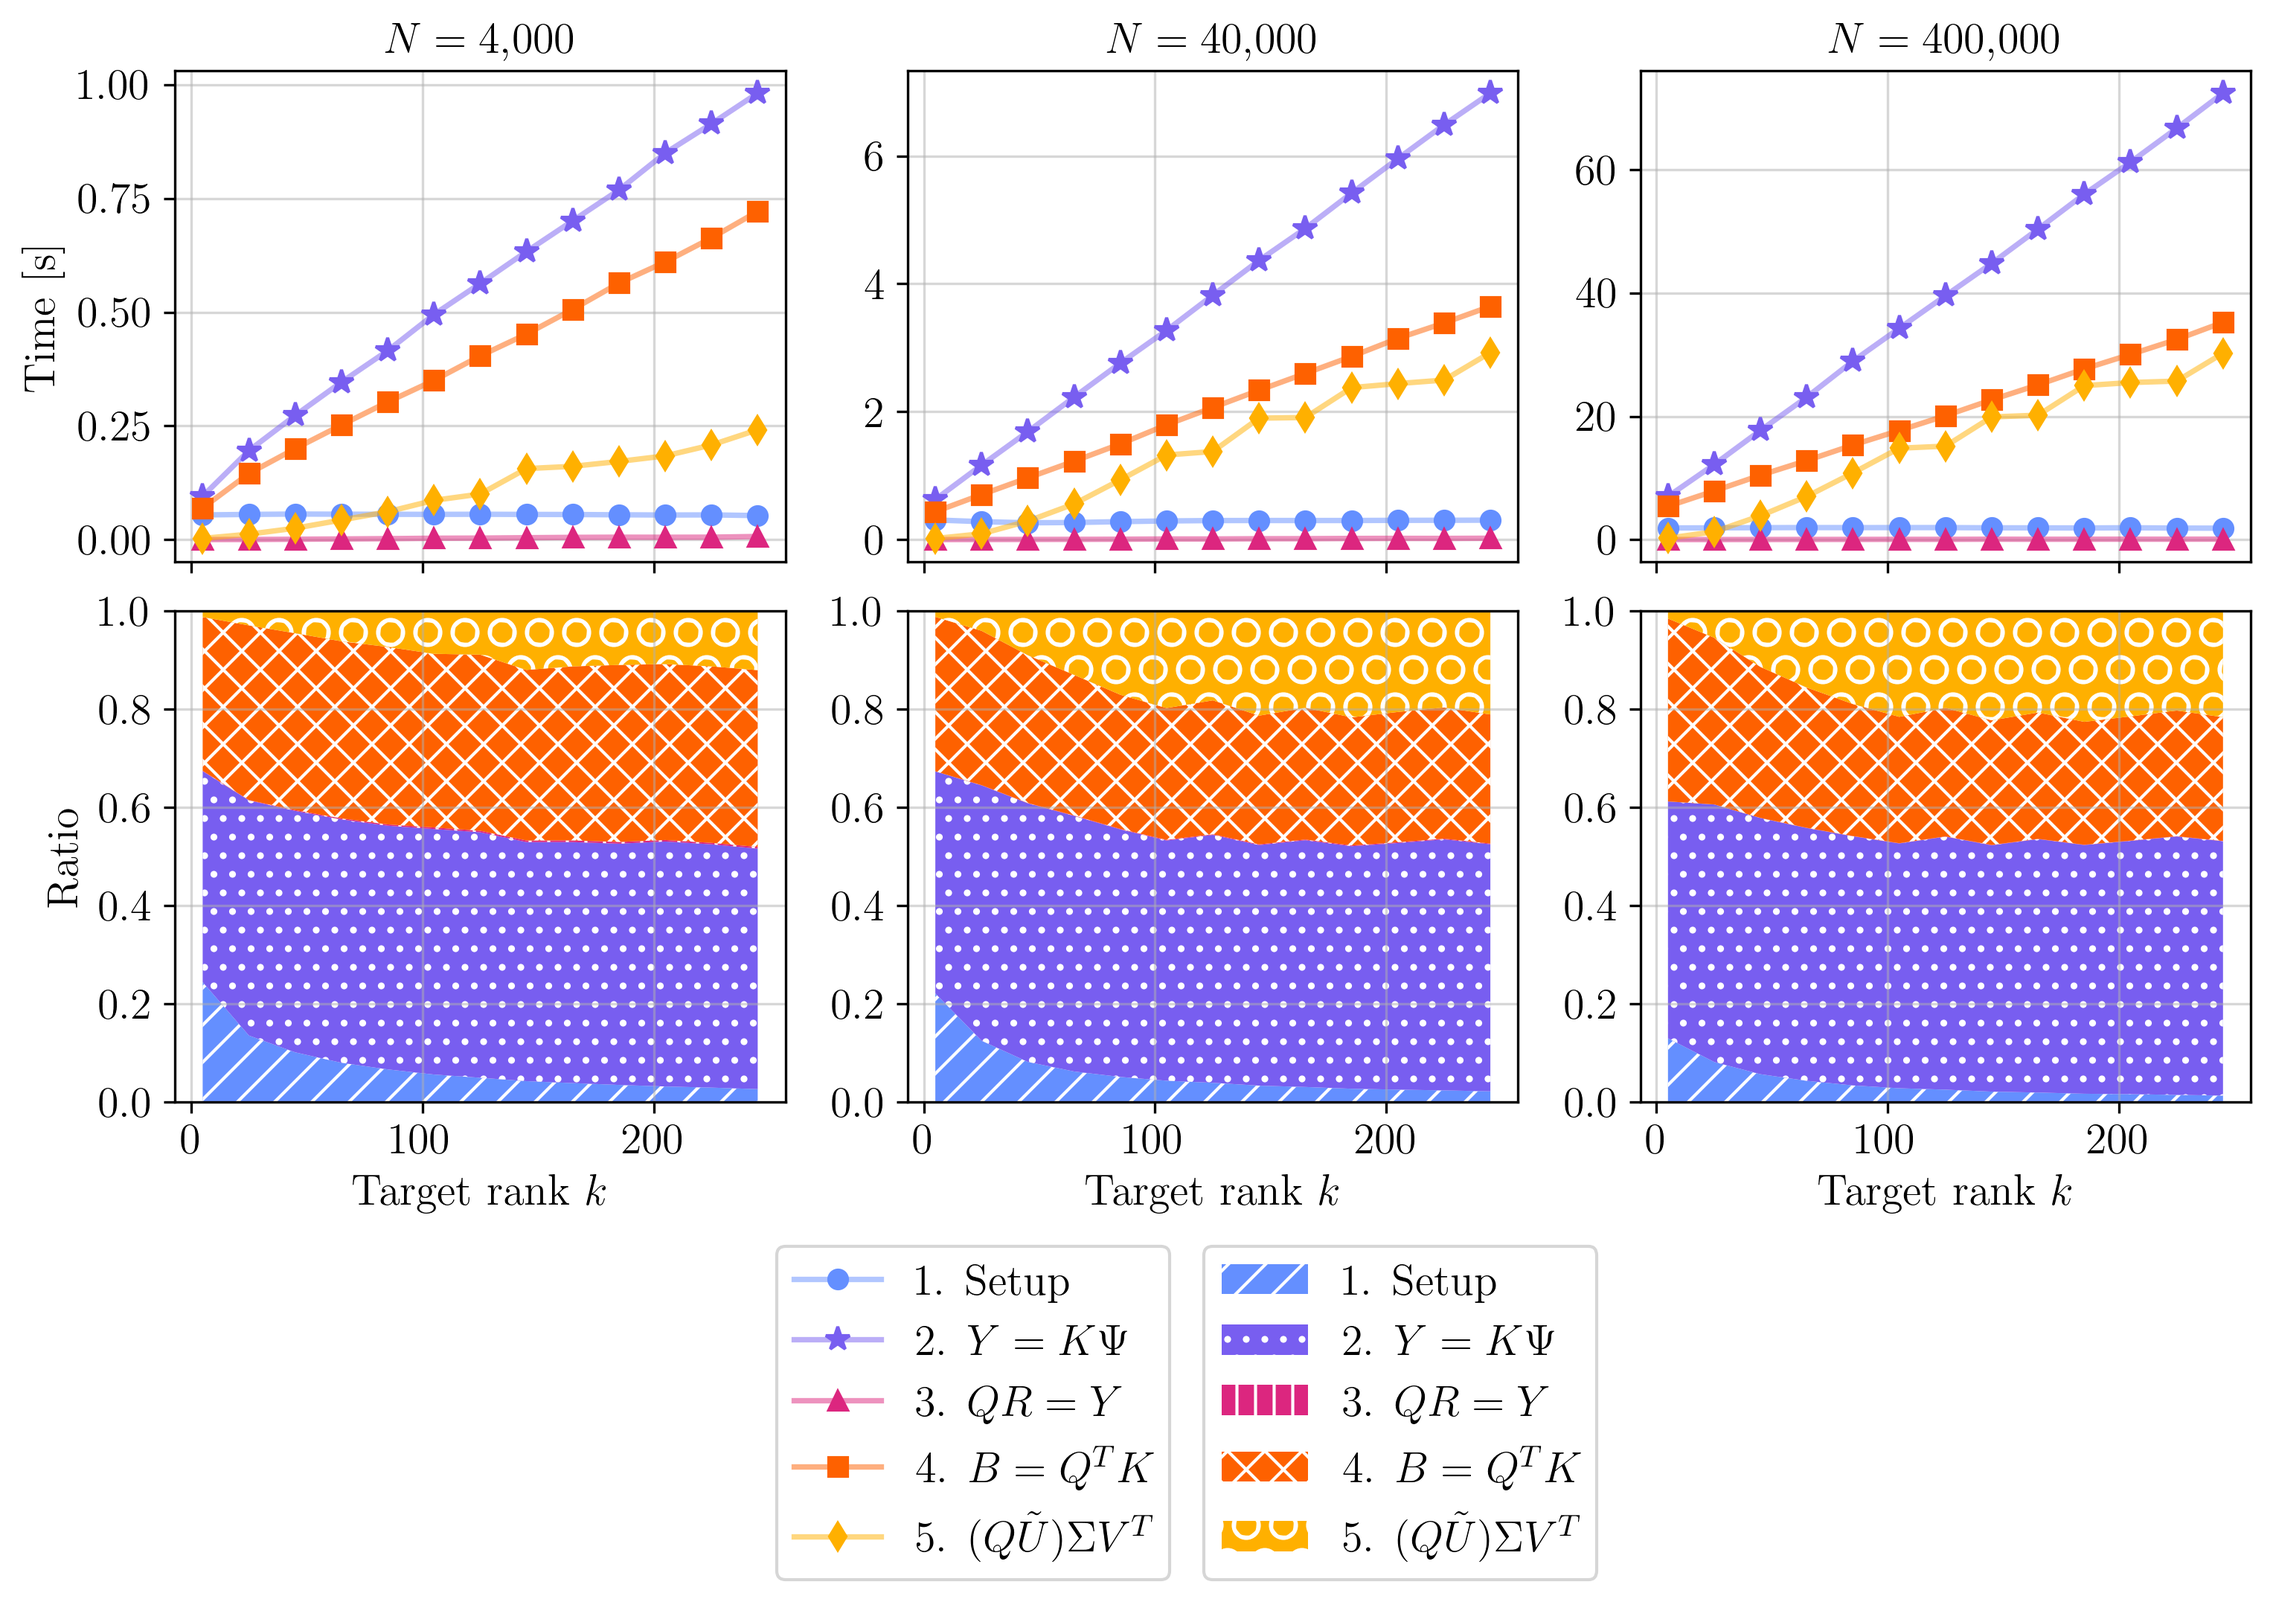
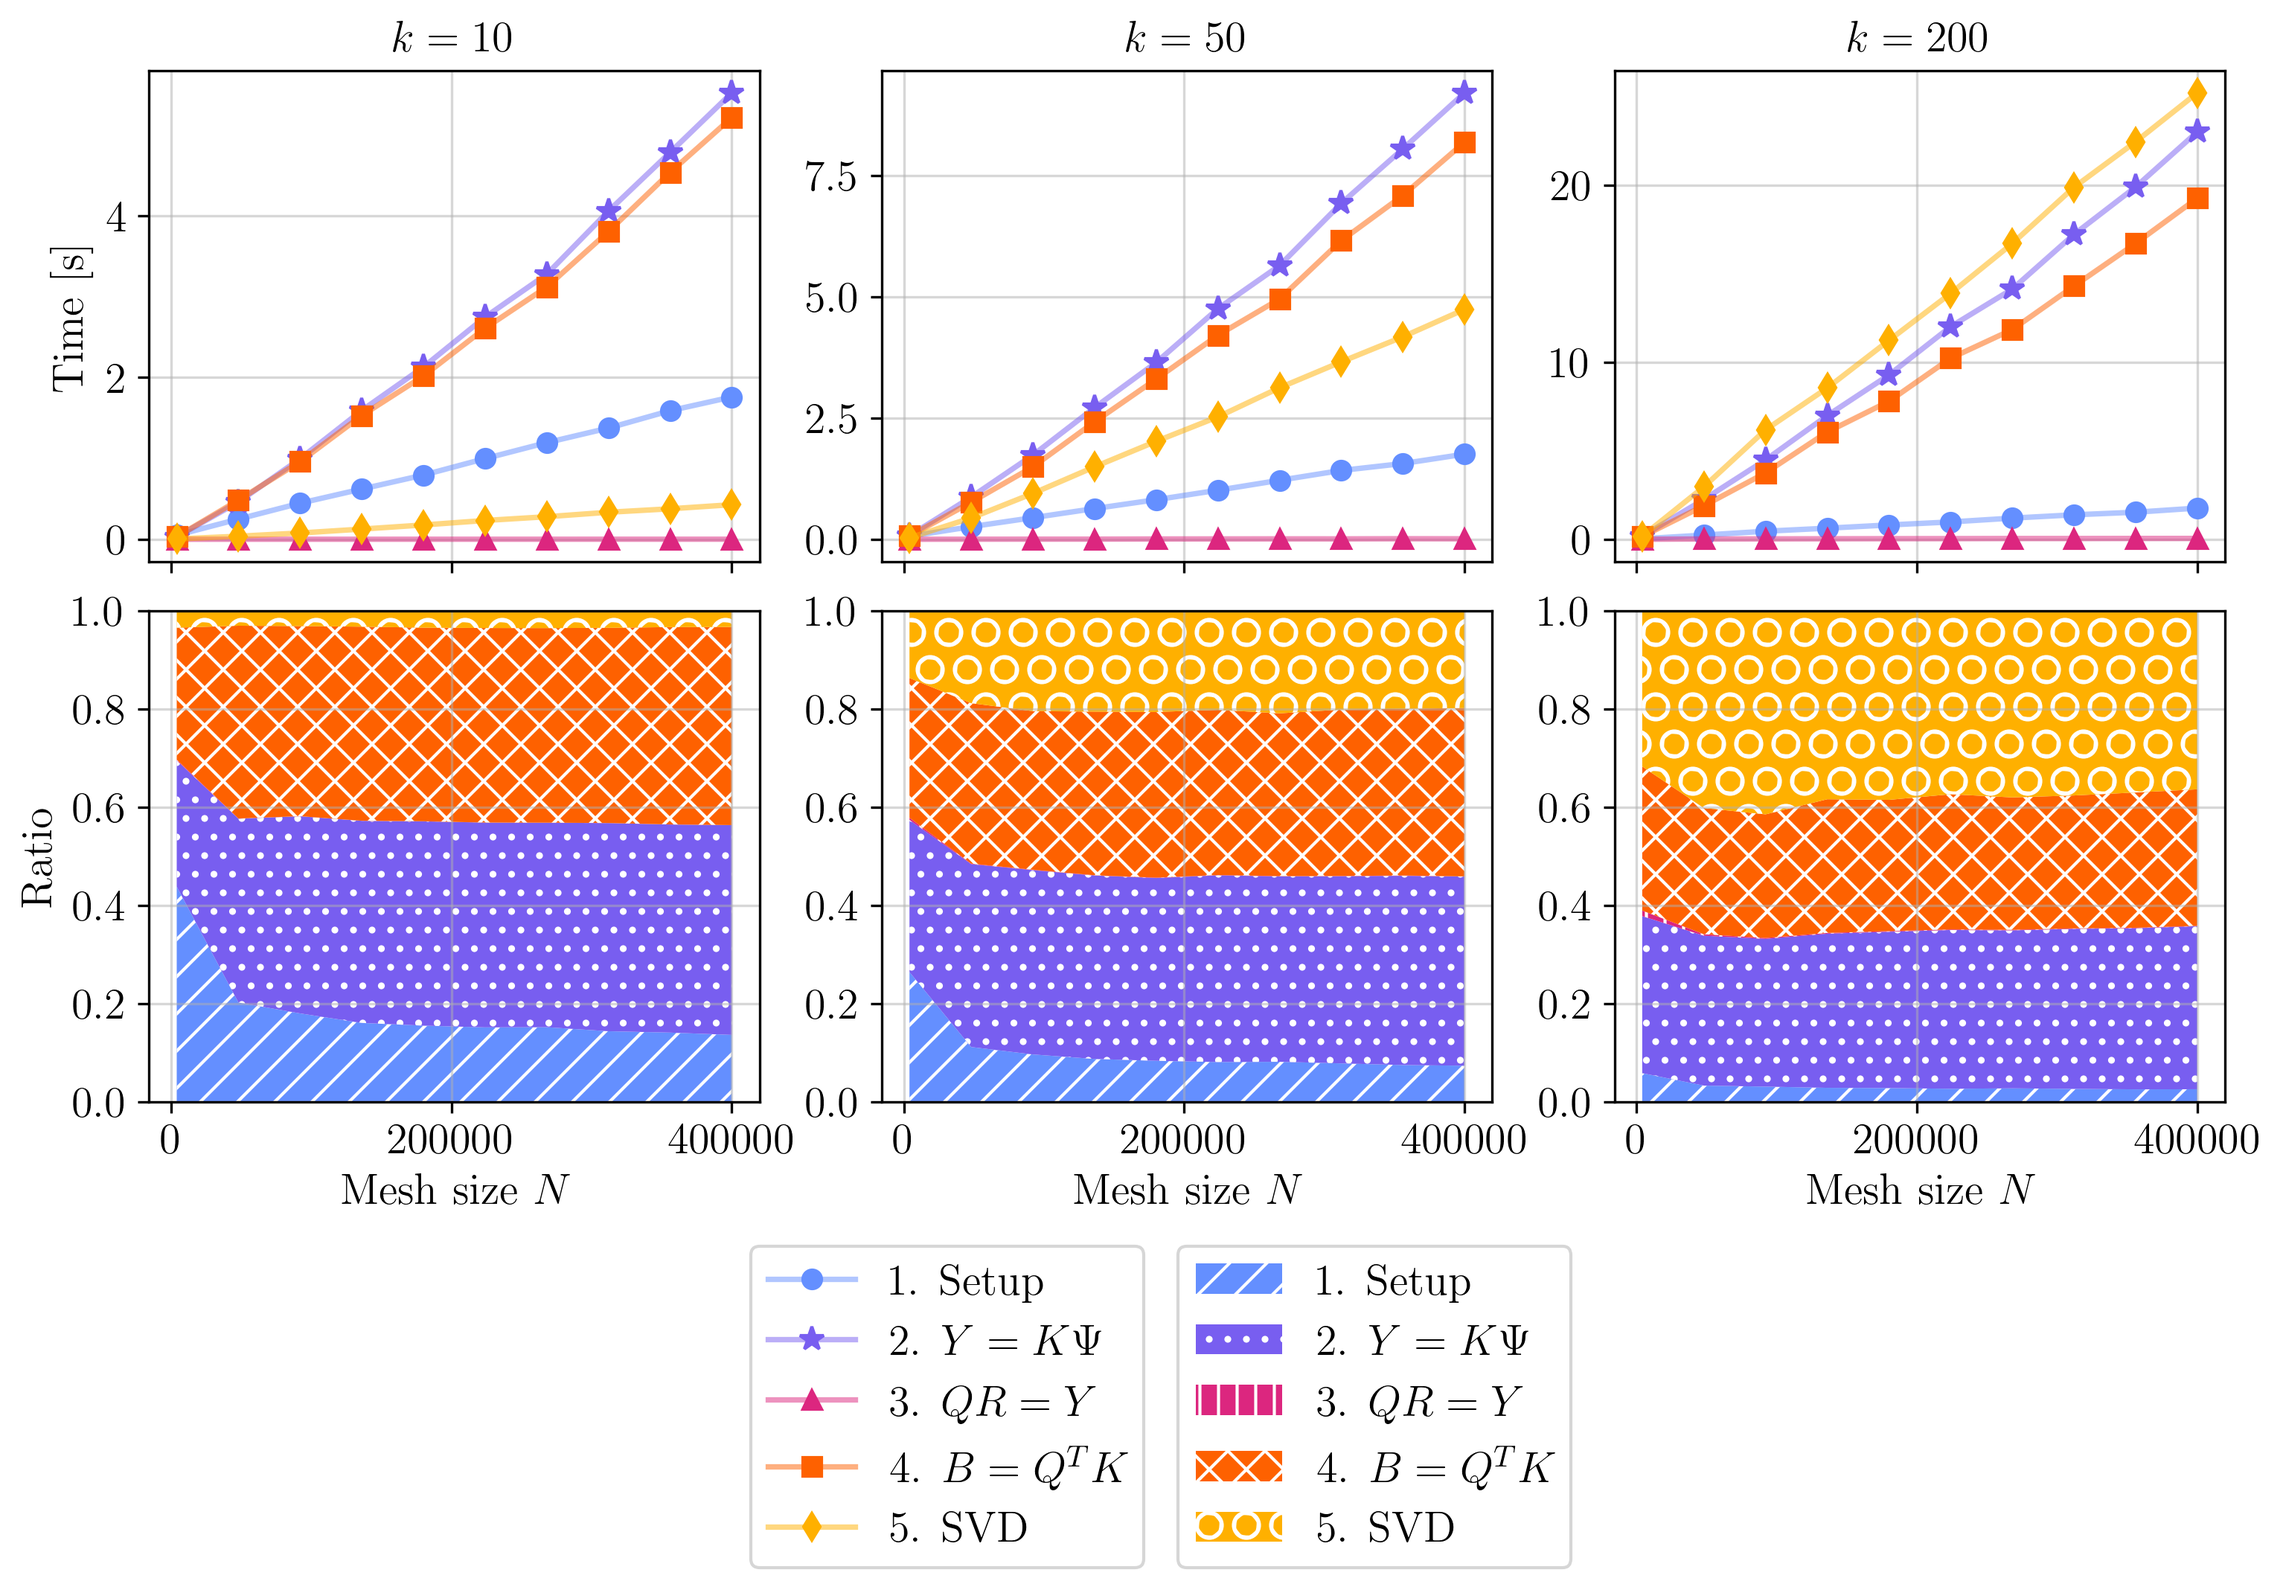
Results: New figures. Generally, fix small mistakes

diff --git a/thesis/sections/5_results.tex b/thesis/sections/5_results.tex
@@ -40,7 +40,7 @@ Figure~\ref{fig:rsvd_computational_breakdown} shows the median computational tim
 
 The dominant costs of Algorithm~\ref{alg:discrete_rsvd} are the forward solves using $K$ (stage 2) and the adjoint solves using $K^*$ (stage 4), both of which scale roughly linearly with $N$, matching the theoretical cost of $\mathcal{O}(l N \log N)$ with $l = k + p$ (Section~\ref{sec:initial_matrix_factorizations}). The setup stage has theoretical cost $\mathcal{O}(N^{3/2})$ but appears near-linear in $N$ over the range considered here. Its share of total time decreases with $k$, because setup is independent of the target rank.
 
-Stage 5's relative cost is primarily determined by the target rank $k$, but also scales linearly with $N$, matching the predicted $\mathcal{O}(l^2 N)$ cost of the SVD of $B$. Its share grows with $k$: Its share grows with $k$: at $N = 400{,}000$, stage 5 accounts for 3\% of total time at $k = 10$ and 36\% at $k = 200$. Stage 3 (the QR factorization of the $N_b \times l$ matrix $Y$) remains below 1\% of total time across all mesh sizes.
+Stage 5's relative cost is primarily determined by the target rank $k$, but also scales linearly with $N$, matching the predicted $\mathcal{O}(l^2 N)$ cost of the SVD of $B$. Its share grows with $k$: at $N = 400{,}000$, stage 5 accounts for 3\% of total time at $k = 10$ and 36\% at $k = 200$. Stage 3 (the QR factorization of the $N_b \times l$ matrix $Y$) remains below 1\% of total time across all mesh sizes.
 
 
 \subsubsection{Target rank effect on reconstruction quality}
@@ -76,6 +76,7 @@ error across all three metrics, most visible in the EMD curves. At $k = 50$ and 
 
 
 \subsubsection{Computational time of adjoint operator}
+\input{figures/computational_time_rsvd_adjoint.tex}
 \textcolor{red}{[TODO: In this section, show the difference in computational time of Algorithm~\ref{alg:discrete_rsvd} versus Algorithm~\ref{alg:discrete_rsvd_Kstar}. Also, show the computational breakdown of Algorithm~\ref{alg:discrete_rsvd_Kstar}].}
 
 

diff --git a/thesis/sections/2_mathematical_background.tex b/thesis/sections/2_mathematical_background.tex
@@ -85,18 +85,17 @@ To obtain a discrete representation of the forward operator
 $\mathcal{K} = \mathcal{T} \circ \mathcal{S}$, 
 we discretize both the PDE operator $\mathcal{S}$ and the trace operator $\mathcal{T}$ using the finite element space $V_h$.
 
-Let $f_h, u_h \in V_h$ denote the finite element approximations of $f$ and $u|_{\partial\Omega}$, respectively. Since $V_h = \operatorname{span}\{\phi_1,\dots,\phi_N\}$, they can be written as
+Let $f_h, u_h \in V_h$ denote the finite element approximations of $f$ and $u$, respectively. Since $V_h = \operatorname{span}\{\phi_1,\dots,\phi_N\}$, they can be written as
 \begin{equation}\label{eq:uh_and_fh}
     f_h = \sum_{j=1}^{N} x_j \phi_j, \quad
     u_h = \sum_{j=1}^{N} u_j \phi_j, 
 \end{equation}
-with coefficient vectors $u = (u_1,\dots,u_N)^T$ 
-and $x = (x_1,\dots,x_N)^T$.
+with coefficient vectors $x = (x_1,\dots,x_N)^T$, $u = (u_1,\dots,u_N)^T$.
 
 Inserting \eqref{eq:uh_and_fh} into the finite element formulation \eqref{eq:fem_formulation} and testing with the basis functions 
 $\{\phi_i\}_{i=1}^N$ yields the linear system
 \begin{equation}\label{eq:matrix_system}
-    A \mathbf{u} = M \mathbf{x},
+    A u = M x,
 \end{equation}
 where $A \in \mathbb{R}^{N \times N}$ is the stiffness matrix and $M \in \mathbb{R}^{N \times N}$ the mass matrix, see Appendix~\ref{appendix:stiffness}.
 \nomenclature[E]{$M$}{Volume mass matrix}%

diff --git a/thesis/figures/rsvd_over_k.tex b/thesis/figures/rsvd_over_k.tex
@@ -26,6 +26,6 @@
     \label{fig:rsvd_over_k_III}
 \end{subfigure}
 
-\caption{Error comparison of rank-$k$ weighted Tikhonov solutions for different oversampling parameters (solid lines) versus the full-rank weighted Tikhonov solution (dashed line). Error metrics used are Euclidean (left column), EMD (middle column), and AUC-IoU (right column).}
+\caption{Reconstruction error of weighted Tikhonov solutions using rSVD-approximated $K$ and $W$ (solid lines, mean $\pm 1$ standard deviation over 50 runs) versus the exact weighted Tikhonov solution (dashed line), for a range of target ranks $k$ and oversampling parameters $p$. Columns: Euclidean (left), EMD (middle), AUC-IoU (right).}
 \label{fig:rsvd_over_k}
 \end{figure*}

diff --git a/thesis/sections/appendix.tex b/thesis/sections/appendix.tex
@@ -173,7 +173,7 @@ The AUC-IoU is then the integration of the $\operatorname{IoU}(\tau)$ curve,
 This can be approximated using the Trapezoidal rule. The AUC-IoU lies in $[0, 1]$, with 1 being a perfect score.
 
 
-\subsection{Derivation of the Adjoint formulation}\label{appendix:adjoint_derivation}
+\subsection{Derivation of the adjoint formulation}\label{appendix:adjoint_derivation}
 Consider the forward operator $\mathcal{K} = \mathcal{S} \circ \mathcal{T}$ given by Equation~\eqref{eq:K}, and the variational formulation of $\mathcal{S}$ by Equation~\eqref{eq:S_cont}. Define the bilinear form
 \begin{equation*}
     a(u,\, v) =

diff --git a/thesis/figures/approximation_of_singular_values.tex b/thesis/figures/approximation_of_singular_values.tex
@@ -1,0 +1,9 @@
+\begin{figure*}[thbp]
+    \centerline{\includegraphics[width=1.0\textwidth]{approximation_of_singular_values.png}}
+    \caption{Ratio of approximated to true singular values,
+    $\sigma_i / \sigma_{i}^{(\text{true})}$, for rSVD on $K$
+    (Algorithm~\ref{alg:discrete_rsvd}) and on $K^*$
+    (Algorithm~\ref{alg:discrete_rsvd_Kstar}) across different oversampling
+    parameters $p$ (mean $\pm 1$ standard deviation over 20 repetitions using Problem I.)}
+    \label{fig:approximation_of_singular_values}
+\end{figure*}

diff --git a/thesis/figures/computational_time_rsvd_adjoint.tex b/thesis/figures/computational_time_rsvd_adjoint.tex
@@ -1,0 +1,5 @@
+\begin{figure*}[thbp]
+    \centerline{\includegraphics[width=1.0\textwidth]{computational_time_of_adjoint_rsvd.png}}
+    \caption{The relative computational time $t^* / t$ where $t^*$ is the time using rSVD on $K^*$ (Algorithm~\ref{alg:discrete_rsvd_Kstar}) and $t$ using rSVD on $K$ (Algorithm~\ref{alg:discrete_rsvd}) for selected $k$ and increasing $N$. For rSVD on $K^*$, both time with and without recovery of the SVD is measured.}
+    \label{fig:computational_time_rsvd_adjoint}
+\end{figure*}

diff --git a/thesis/figures/mesh_resolution_effect.tex b/thesis/figures/mesh_resolution_effect.tex
@@ -1,0 +1,5 @@
+\begin{figure*}[thbp]
+    \centerline{\includegraphics[width=1.0\textwidth]{mesh_resolution_effect.png}}
+    \caption{The reconstruction error using rSVD with fixed $k$ and increasing mesh resolution $N$. Error measured using relative Euclidean norm (left), relative EMD (middle), and AUC-IoU (right) on Problem I.}
+    \label{fig:mesh_resolution_effect}
+\end{figure*}
